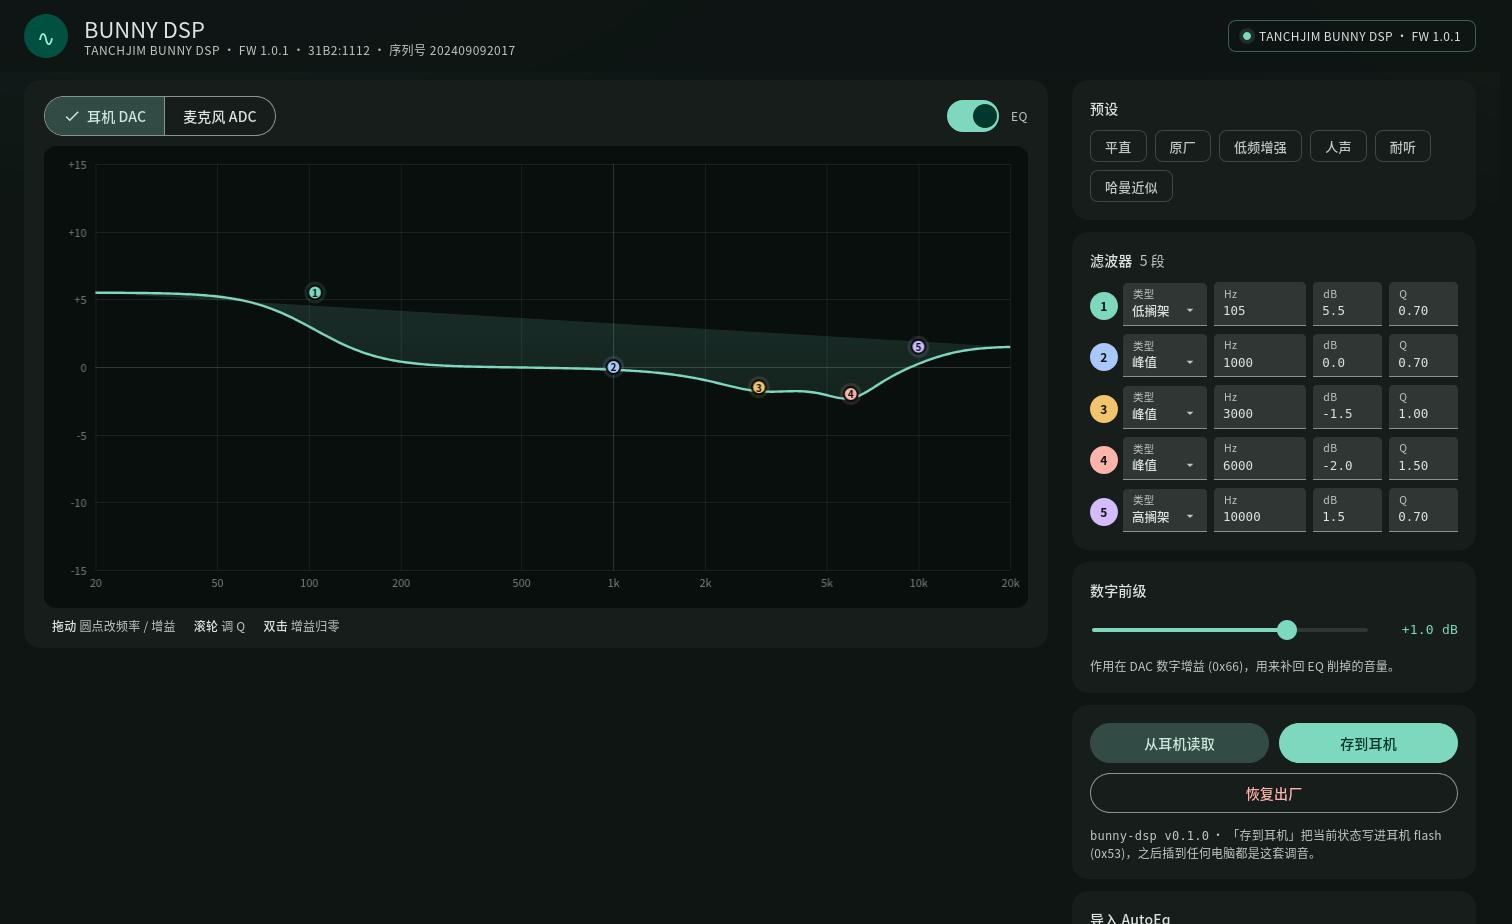
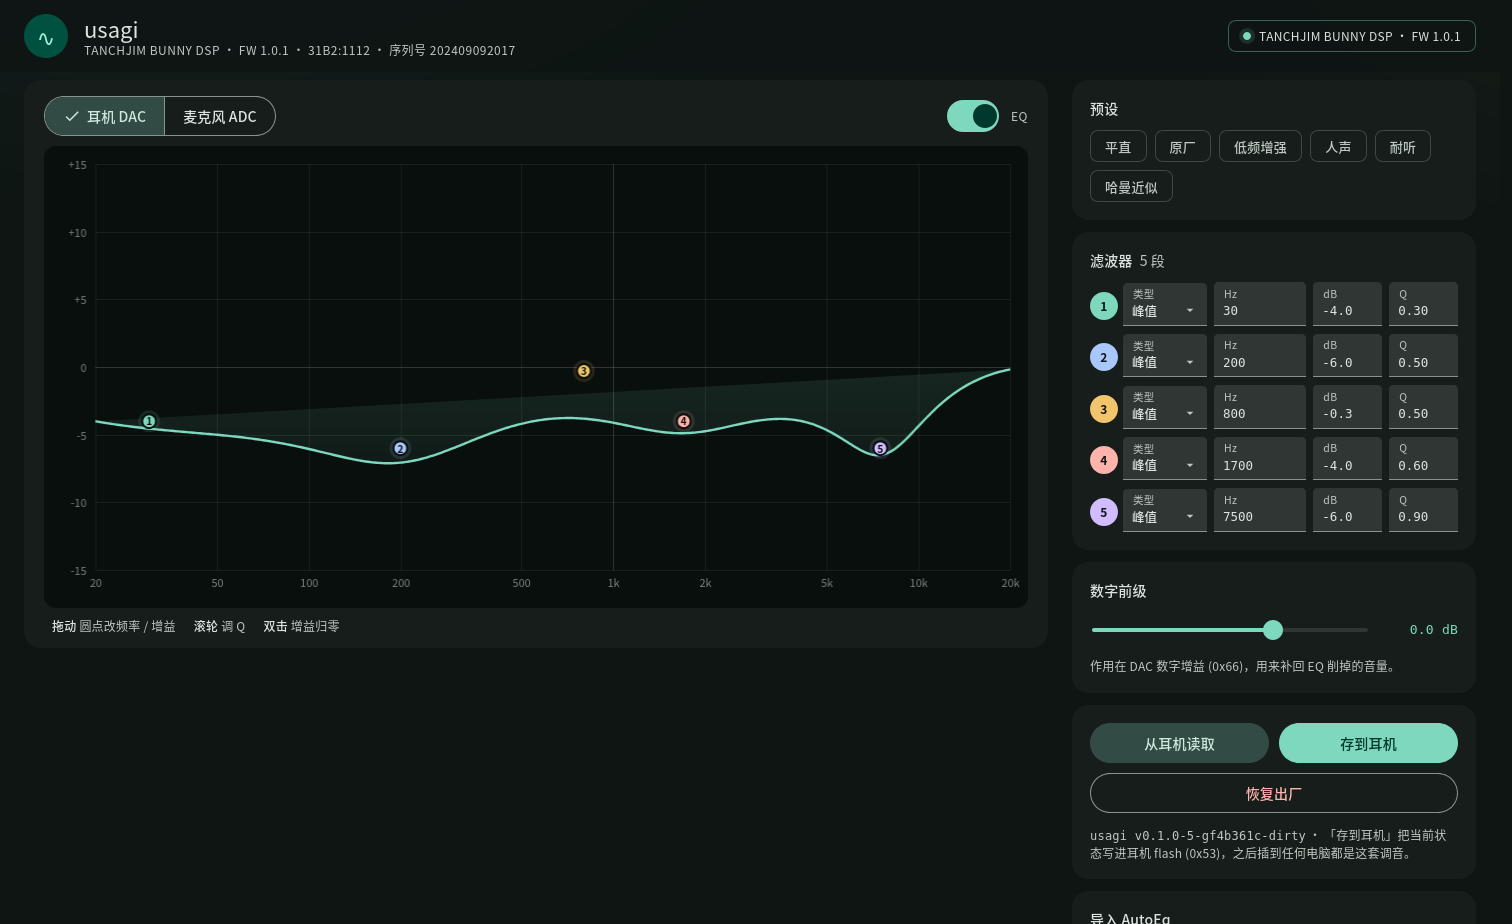
rename to usagi, rewrite docs with the project's background
- usagi (兔几): Linux tuning console for the TANCHJIM BUNNY DSP cable
- README: why the project exists (official clients are Android/iOS/Windows
  only), verified specs, compatibility, troubleshooting, architecture
- PROTOCOL.md: background + risk note, renamed references
- udev rule / service / binary / module all renamed consistently

diff --git a/web/index.html b/web/index.html
@@ -4,7 +4,7 @@
 <meta charset="utf-8">
 <meta name="viewport" content="width=device-width, initial-scale=1">
 <meta name="theme-color" content="#0E1513">
-<title>BUNNY DSP</title>
+<title>usagi · TANCHJIM BUNNY DSP</title>
 <link rel="stylesheet" href="/style.css">
 </head>
 <body>
@@ -14,8 +14,8 @@
     <div class="brand">
       <span class="brand-mark">∿</span>
       <div class="brand-text">
-        <h1>BUNNY DSP</h1>
-        <p id="deviceLine">KT0211L · 5 段参数均衡</p>
+        <h1>usagi</h1>
+        <p id="deviceLine">TANCHJIM BUNNY DSP · KT0211L</p>
       </div>
     </div>
 
@@ -89,7 +89,7 @@
       <button id="btnRead" class="btn btn-tonal">从耳机读取</button>
       <button id="btnSave" class="btn btn-filled" disabled>存到耳机</button>
       <button id="btnFactory" class="btn btn-outlined btn-error">恢复出厂</button>
-      <p class="support-text"><span class="mono" id="versionTag">bunny-dsp</span> · 「存到耳机」把当前状态写进耳机 flash (0x53)，之后插到任何电脑都是这套调音。</p>
+      <p class="support-text"><span class="mono" id="versionTag">usagi</span> · 「存到耳机」把当前状态写进耳机 flash (0x53)，之后插到任何电脑都是这套调音。</p>
     </section>
 
     <section class="card">

diff --git a/web/app.js b/web/app.js
@@ -727,7 +727,7 @@ const sleep = (ms) => new Promise((r) => setTimeout(r, ms));
 async function refreshAll() {
   try {
     const st = await api('/api/status');
-    if (st.version) $('versionTag').textContent = 'bunny-dsp ' + st.version;
+    if (st.version) $('versionTag').textContent = 'usagi ' + st.version;
     setConnected(st.connected, st.info);
     if (st.connected && st.preamp) {
       state.savedPreamp = st.preamp.l;

diff --git a/main.go b/main.go
@@ -298,7 +298,7 @@ func main() {
 		WriteTimeout:      60 * time.Second,
 	}
 	host := strings.Replace(*addr, "0.0.0.0", "127.0.0.1", 1)
-	log.Printf("bunny-dsp %s — 打开浏览器访问 http://%s", version, host)
+	log.Printf("usagi %s — 打开浏览器访问 http://%s", version, host)
 	if err := srv.ListenAndServe(); err != nil {
 		log.Fatal(err)
 	}

diff --git a/README.md b/README.md
@@ -1,36 +1,58 @@
-# bunny-dsp
+# usagi · 兔几调音台
 
-给 KTMicro USB 音频 DSP 耳机线（TANCHJIM BUNNY DSP，`31b2:1112` / KT0211L）做的 **Web 调音台**：
-浏览器里拖曲线，实时写进耳机，一键固化到耳机 flash —— **换台电脑插上，还是这套声音**。
-
-界面按 Material Design 3 深色主题实现（teal 种子色、segmented button、filled text field、
-MD3 switch/slider、state layer + ripple、snackbar）。
+**在 Linux 上给 TANCHJIM BUNNY DSP 调音。** 浏览器里拖 5 段参数均衡，实时写进耳机，
+一键固化到耳机自己的 flash —— 换台电脑、换台手机插上，还是这套声音。
 
 ![界面](docs/ui.png)
 
-## 特性
+---
 
-- **5 段参数均衡**：耳机（DAC）与麦克风（ADC）两条链路，Peak / 低搁架 / 高搁架 / 低通 / 高通
-- **实时试听**：拖圆点改频率/增益，滚轮调 Q，松手 ~160ms 自动下发到耳机
-- **预设**：平直 / 原厂（从固件读出的出厂调音）/ 低频增强 / 人声 / 耐听 / 哈曼近似
-- **AutoEq 导入**：粘贴 `Filter 1: ON PK Fc 105 Hz Gain 5.5 dB Q 0.70` 文本直接套用，Preamp 一起写
-- **导出 / 导入 JSON**：曲线可备份、可分享
-- **数字前级**：DAC 数字增益 0.5 dB 步进，补回 EQ 削掉的音量
-- **写进耳机**：`0x53` 把 RAM 状态提交到 flash，掉电、换电脑都不丢；设备会自动重启
-- **恢复出厂**：用固件里 dump 出来的参数覆盖并写回
-- 单二进制 + 内嵌前端，无运行时依赖；纯标准库 Go，无 cgo
+## 背景
+
+[TANCHJIM（天使吉米）](https://tanchjim.com/) 是国内做入耳式耳机的厂牌。
+**BUNNY（兔几）** 是它家的入门单动圈：双腔体动圈、DMT 4 Ultra、30 Ω / 123 dB/Vrms，
+3.5 mm 版和 USB-C「DSP 版」两条产品线，DSP 版贵 10 块钱
+（[官方产品页](https://tanchjim.com/products/earphones/iem/bunny/)）。
+
+贵出来的这部分在线材里：USB-C 插头内集成双路 24-bit DAC、微型耳放、低噪声麦克风电路
+和一颗 DSP，支持 44.1 / 48 / 96 kHz 输出、麦克风 24-bit/96 kHz 输入。
+调音靠官方 App —— 5 段参数均衡、四组预设、游戏音效，还能把自定义曲线传到社区。
+
+问题在于：**官方客户端只覆盖 Android、iOS 和 Windows**
+（[下载中心](https://tanchjim.com/services/) 里是 `TANCHJIM APP` 和 `TANCHJIM PC`），
+**没有 Linux 版，也没有公开的协议或驱动**。于是 Linux 用户要么借一台安卓手机调音，
+要么就只能听出厂曲线。
+
+这个项目补的就是这块：把这条线的 HID 控制通道逆向出来
+（[协议笔记](docs/PROTOCOL.md)），做成一个本地 Web 控制台 ——
+不用装驱动、不用手机，浏览器打开就能调，调完写进耳机，之后插到哪台设备都生效。
+
+> 顺便说明：官方 App 的功能这里都有，另外多了任意 AutoEq 曲线导入、JSON 备份和寄存器级调试。
+
+## 它做什么
+
+| 功能 | 说明 |
+|---|---|
+| 5 段参数均衡 | 耳机（DAC）与麦克风（ADC）两条链路，Peak / 低搁架 / 高搁架 / 低通 / 高通 |
+| 实时试听 | 图上拖圆点改频率/增益，滚轮调 Q，松手约 160 ms 下发到耳机 |
+| 预设 | 平直 / 原厂（从固件里读出的出厂调音）/ 低频增强 / 人声 / 耐听 / 哈曼近似 |
+| AutoEq 导入 | 粘贴 `Filter 1: ON PK Fc 105 Hz Gain 5.5 dB Q 0.70` 文本直接套用，Preamp 一起写 |
+| 导出 / 导入 | 当前曲线存成 JSON，随时备份、分享或换机恢复 |
+| 数字前级 | DAC 数字增益，0.5 dB 步进，补回 EQ 削掉的音量 |
+| 写进耳机 | `0x53` 把 RAM 状态提交到 flash，掉电不丢；设备会自动重启 |
+| 恢复出厂 | 用固件里 dump 出来的参数覆盖并写回 |
 
 ## 快速开始
 
-需要：**Linux** + **Go 1.22+** + 一条能用的 USB 数据线。
+需要：**Linux** + **Go 1.22+** + 一条能用的 USB 数据线（很多线只供电，不行就换一条）。
 
 ```bash
-git clone <this-repo> bunny-dsp
-cd bunny-dsp
+git clone <this-repo> usagi
+cd usagi
 ./install.sh
 ```
 
-安装脚本会：编译 → 装到 `~/.local/bin/bunny-dsp` → 装 udev 规则（需要 sudo 密码）→
+安装脚本会：编译 → 装到 `~/.local/bin/usagi` → 装 udev 规则（需要 sudo）→
 装并启动 systemd 用户服务，最后打印访问地址：
 
 ```
@@ -43,12 +65,12 @@ cd bunny-dsp
 更新代码后重新跑一次 `./install.sh` 会自动重启服务、换上新二进制。
 
 ```bash
-systemctl --user status bunny-dsp    # 运行状态
-journalctl --user -u bunny-dsp -f    # 日志
-./uninstall.sh                       # 卸载
+systemctl --user status usagi     # 运行状态
+journalctl --user -u usagi -f     # 日志
+./uninstall.sh                    # 卸载
 ```
 
-### 只想临时跑一下（不装进系统）
+### 只想临时跑一下
 
 ```bash
 make run     # 编译并在前台启动，自己访问打印出来的地址
@@ -57,84 +79,106 @@ make run     # 编译并在前台启动，自己访问打印出来的地址
 首次运行若报无权限读 `/dev/hidraw*`，手动装一次 udev 规则：
 
 ```bash
-sudo install -m 0644 99-ktmicro-dsp.rules /etc/udev/rules.d/
+sudo install -m 0644 99-usagi.rules /etc/udev/rules.d/
 sudo udevadm control --reload-rules && sudo udevadm trigger --subsystem-match=hidraw
 ```
 
 ### 手动构建
 
 ```bash
-make build                              # 产出 ./bunny-dsp
-./bunny-dsp                             # 默认 127.0.0.1:8099
-./bunny-dsp -addr 0.0.0.0:8099          # 局域网可访问
-./bunny-dsp -version
+make build                              # 产出 ./usagi
+./usagi                                 # 默认 127.0.0.1:8099
+./usagi -addr 0.0.0.0:8099              # 局域网可访问
+./usagi -version
 ```
+
+## 怎么用
+
+1. 插上耳机，打开页面，右上角变绿表示连上了
+2. 左边拖圆点调曲线，或点一个预设；改完自动下发，立刻能听到
+3. 满意后点 **存到耳机** —— 写进耳机 flash，设备重启 2–3 秒后自动重连
+4. 拔下来插到手机 / 播放器 / 别的电脑，就是调好的声音
+5. 想还原：点 **恢复出厂**
+
+> 只有「存到耳机」会写 flash，其它操作都在 RAM 里，拔插即恢复。
+
+## 为什么换台电脑还有效
+
+调音存在耳机自己的 flash（配置块双备份在 `0x9000` / `0xA000`，各 1 KiB），
+耳机上电自己加载，跟主机、驱动、播放软件都无关。这台电脑上的服务只是“遥控器”。
+
+这也是为什么可以在 Linux 上调完，插到 iPhone、播放器、Switch 上用。
+
+## 兼容性
+
+| 设备 | 状态 |
+|---|---|
+| TANCHJIM BUNNY DSP（`31b2:1112`，固件 1.0.1，KT0211LC02） | ✅ 完整验证 |
+| 其它 KTMicro Helios 系（KT02H20 / KT0211L）线材 | ⚠ 大概率可用，但寄存器布局可能不同 |
+
+换设备前建议先 `GET /api/registers` 看一眼再写：
+写错寄存器最多是声音不对，但**别乱发 `0x53`**，它会把当前状态固化进 flash。
 
 ## 平台支持
 
 | 平台 | 状态 |
 |---|---|
-| Linux | ✅ 完整支持（走 `/dev/hidraw` + `select(2)`） |
-| Windows / macOS | 🚧 能编译、能打开界面，但设备层会提示“当前系统不支持” |
+| Linux | ✅ 完整支持（`/dev/hidraw` + `select(2)`） |
+| Windows / macOS | 🚧 能编译、能开界面，设备层会提示“当前系统不支持” |
 
-传输层已经拆成 `hid_linux.go` / `hid_other.go` 两个文件，移植只需要实现
+传输层拆成了 `hid_linux.go` / `hid_other.go`，移植只需实现
 `openHID / Read / Write / hidPaths` 四个函数（Windows 用 SetupAPI + `HidD_*`，macOS 用 IOHIDManager）。
-
-## 怎么用
-
-1. 插上耳机，打开页面，右上角变绿表示连上了
-2. 左边拖圆点调曲线，或者点一个预设；改完自动下发，立刻能听到
-3. 满意后点 **存到耳机** —— 写进耳机 flash，设备重启 2–3 秒后自动重连
-4. 拔下来插到手机 / 播放器 / 别的电脑，就是调好的声音
-5. 想还原：点 **恢复出厂**
-
-> 「存到耳机」才写 flash，其它操作都在 RAM 里，拔插即恢复。
-
-## 为什么换台电脑还有效
-
-调音存在耳机自己的 flash（配置块双备份在 `0x9000` / `0xA000`，各 1 KiB），
-耳机上电自己加载，跟主机、驱动、播放软件无关。这台电脑上的服务只是“遥控器”。
+欢迎 PR。
 
 ## 故障排查
 
 | 现象 | 处理 |
 |---|---|
-| 页面显示未连接，`/dev/hidraw*` 权限不足 | 装 udev 规则（见上），或 `sudo usermod -aG plugdev $USER` 后重新登录 |
-| 找不到设备 | `lsusb \| grep 31b2` 确认插入；换条数据线（很多线只有供电） |
-| 设备卡死不响应 | 拔插一次；`0x08` 读到非 4 字节对齐地址会导致固件挂起（本工具不会这么做） |
-| 端口被占用 | `./bunny-dsp -addr 127.0.0.1:8100` |
+| 未连接，`/dev/hidraw*` 权限不足 | 装 udev 规则（见上），或 `sudo usermod -aG plugdev $USER` 后重新登录 |
+| 找不到设备 | `lsusb \| grep 31b2` 确认插入；换条数据线 |
+| 设备卡死不响应 | 拔插一次；`0x08` 读非 4 字节对齐地址会让固件挂起（本工具不会这么做） |
+| 端口被占用 | `./usagi -addr 127.0.0.1:8100` |
 | 保存后页面短暂断开 | 正常，`0x53` 会让设备重启，服务会自动重连 |
 
-## 目录结构
+## 架构
+
+```
+浏览器 (MD3 UI)  ──HTTP/JSON──▶  Go 服务  ──USB HID (11 字节帧)──▶  KT0211L
+      canvas / 拖拽              协议编解码 / 重连                  5 段 PEQ + DRC
+```
+
+- **服务端**：纯标准库 Go，无 cgo；`/dev/hidraw` 非阻塞 + `select(2)` 超时，信号打断自动重试
+- **前端**：原生 JS + Canvas，无构建步骤；biquad 用 RBJ cookbook，和设备里的编码一一对应
+- **持久化**：`0x53` 命令把 RAM 状态写进 flash，服务会等设备重枚举后再返回
+
+### 目录
 
 ```
 .
 ├── main.go              HTTP 服务、路由、flag
 ├── device.go            寄存器协议、EQ 编解码、保存/重连
 ├── hid_linux.go         hidraw + select 传输层
-├── hid_other.go         非 Linux 的桩实现（保证可编译）
+├── hid_other.go         非 Linux 桩实现（保证可编译）
 ├── presets.go           内置预设 + 出厂参数（从固件 dump）
 ├── device_test.go       编解码 / 预设 / 寄存器映射测试
 ├── web/                 前端（嵌入二进制）
-│   ├── index.html
-│   ├── style.css        MD3 token 与组件
-│   └── app.js           曲线绘制、交互、AutoEq 解析
+├── tools/ktdsp.py       命令行调音（不依赖 Web UI）
+├── tools/ktdump.py      固件整片备份
 ├── install.sh           安装器
-├── uninstall.sh         卸载
-├── 99-ktmicro-dsp.rules udev 规则
-└── docs/ui.png          截图
+├── 99-usagi.rules       udev 规则
+└── docs/PROTOCOL.md     协议与寄存器地图
 ```
 
 ## HTTP API
 
 | 方法 | 路径 | 说明 |
 |---|---|---|
-| GET | `/api/health` | 存活 + 版本 + 连接状态 |
+| GET | `/api/health` | 存活 + 版本 + 连接状态（会真去探测设备） |
 | GET | `/api/status` | 设备信息、前级、两条 EQ 链 |
 | GET | `/api/eq/{dac,adc}` | 读一条 EQ 链 |
 | PUT | `/api/eq/{dac,adc}` | 写一条 EQ 链 `{enabled, bands:[{freq,gain,q,type}]}` |
 | GET/PUT | `/api/preamp` | 数字前级 `{l,r}`（dB） |
-| POST | `/api/save` | `0x53` 写 flash，接口等到设备重启回来再返回 |
+| POST | `/api/save` | `0x53` 写 flash，接口等设备重启回来再返回 |
 | POST | `/api/factory` | 恢复出厂并写 flash |
 | GET | `/api/registers` | 256 个寄存器 dump |
 | PUT | `/api/raw` | 直接写寄存器 `{addr:"0x24", value:1}` |
@@ -163,17 +207,17 @@ make fmt      # gofmt
 
 ```bash
 firefox --headless --marionette --profile /tmp/ffp about:blank &
-./bunny-dsp &
-python3 test_ui.py        # 点预设 → 校验设备 → 保存 → 恢复出厂
+./usagi &
+python3 test_ui.py
 ```
 
-协议细节（报文、寄存器地图、固件布局）见 [`docs/PROTOCOL.md`](docs/PROTOCOL.md)。
+协议细节见 [`docs/PROTOCOL.md`](docs/PROTOCOL.md)：
+报文格式、寄存器地图、出厂 EQ 解码、固件布局与 dump 方法。
 
-## 兼容性
+## 免责声明
 
-在 TANCHJIM BUNNY DSP（`31b2:1112`，固件 1.0.1，KT0211LC02）上完整验证过。
-同属 KTMicro Helios 系（KT02H20 / KT0211L）的其它线材大概率可用，但**不同型号的寄存器布局可能不同**，
-建议先用 `GET /api/registers` 看一眼再写。
+非官方项目，与 TANCHJIM（天使吉米）无隶属或授权关系，仅用于自己设备的调音与互操作。
+写 flash 有风险，动寄存器前建议先 `tools/ktdump.py` 备份一份固件。
 
 ## License
 

diff --git a/docs/PROTOCOL.md b/docs/PROTOCOL.md
@@ -3,6 +3,17 @@
 > 实测设备：`31b2:1112`，固件 `1.0.1`（2024-09-04 构建），序列号 `202409092017`
 > 平台：KTMicro（昆腾微）Helios 系 USB Audio DSP，与 KT02H20 / KT0211L 同一寄存器布局
 
+这是 [usagi](../README.md) 的协议底稿：本文所有结论都来自在真机上反复读写的实测，
+以及厂商 Windows 工具（KT_USB_APP / KT_BOOT_TOOL）的静态分析。
+
+**为什么会有这份文档**：BUNNY DSP 的调音依赖官方 App，而官方只提供
+Android / iOS / Windows 客户端（[下载中心](https://tanchjim.com/services/)），
+没有 Linux 版，也没有任何公开协议。下面的报文格式和寄存器地图是黑盒试出来的，
+供移植、备份和排障参考。
+
+> ⚠ **写 flash 有风险**：`0x53` 会把当前 RAM 状态固化进耳机 flash。
+> 动手之前先用 `python3 tools/ktdump.py -o flash.bin` 备份整片固件，写错了还能烧回去。
+
 ---
 
 ## 1. 设备档案
@@ -166,7 +177,7 @@ flash.bin  262144 字节
 ./tools/ktdsp.py eq --plot dac.svg          # 画当前 EQ 的幅频响应
 ```
 
-`bunny-dsp`（本仓库，Web 调音台）：
+`usagi`（本仓库，Web 调音台）：
 
 ```bash
 make run   # http://127.0.0.1:8099
@@ -179,7 +190,7 @@ make run   # http://127.0.0.1:8099
 ./tools/ktdump.py -o flash.bin              # 全片 256 KiB，可断点续传
 ```
 
-访问权限：已写入 `/etc/udev/rules.d/99-ktmicro-dsp.rules`，给 `31b2:*` 的 hidraw 加了 `plugdev` 组权限和 `/dev/ktdsp` 软链接，普通用户可直连。
+访问权限：已写入 `/etc/udev/rules.d/99-usagi.rules`，给 `31b2:*` 的 hidraw 加了 `plugdev` 组权限和 `/dev/usagi` 软链接，普通用户可直连。
 
 ## 8. 安全边界
 
